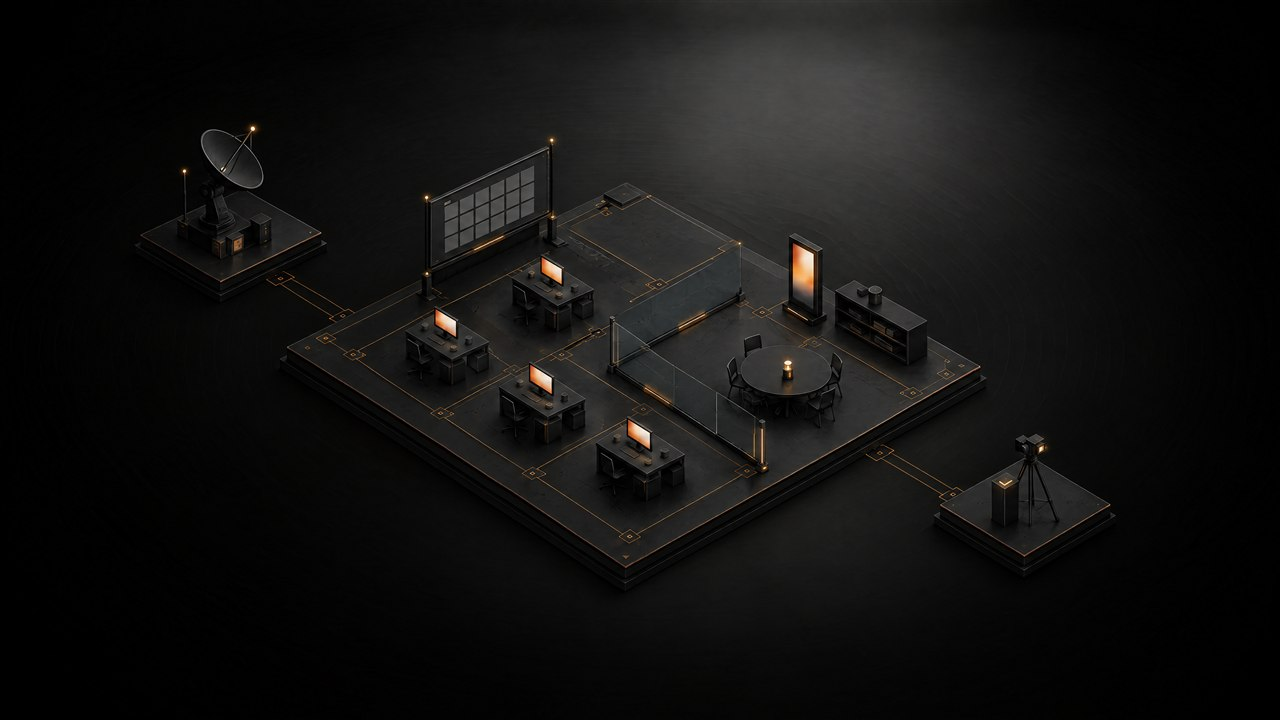
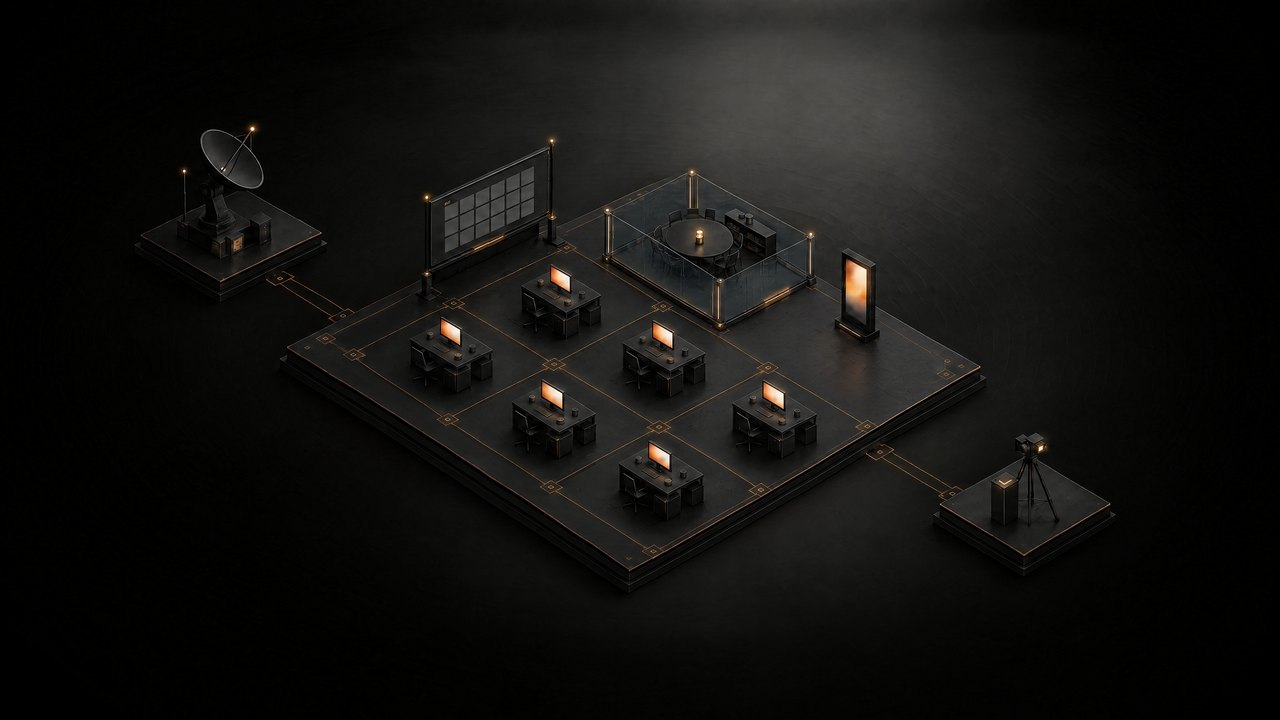
fix(nuevo): CC6 · oficina de marketing REGENERADA con 6 mesas (sin retoques encima)
Emilio (01-nov): «la imagen de la oficina quedó destruida con muchos errores; empieza de cero: coge la original
como se hizo en primera instancia y genera una nueva dándole instrucción al generador de que la cree con 6 mesas».

- public/nuevo/marketing-{2560,1280}.jpg: nueva foto con la misma receta de la original (POST /v1/images/edits ·
  gpt-image-2.5-flare · 3840x2160 high · entrada: la foto original), 2 candidatas (US$ 0,234), elegida la 1:
  6 mesas idénticas en rejilla de 2 × 3, cada una en su celda de líneas naranjas; sala de reuniones con vidrio
  solo con la mesa redonda y el mueble; pantalla vertical afuera. Tablero, antena, cámara y plataforma alineados
  con la original a ~1 px (las piezas de CC5 sobre la foto siguen en su sitio).
- Fuera la capa de retoques (marketing-oficina-simetrica.webp) y su <img>.
- MESAS: las 6 en la foto (monitores medidos sobre la foto nueva); atrás Dirección · Estrategia · Creativo,
  adelante Web y búsqueda · Medios y Performance · Relaciones.
- Pruebas: rejilla con el mismo paso, todas en la foto, sin capas.

Changed region(s): [[0.3125, 0.2444, 0.75, 0.7944], [0.7812, 0.6111, 0.8125, 0.6722], [0.7188, 0.6722, 0.75, 0.7028]]

diff --git a/__tests__/nuevo-cc6-s1-avatares.test.ts b/__tests__/nuevo-cc6-s1-avatares.test.ts
@@ -1,10 +1,10 @@
 /** Dashboard nuevo · CC6 Sprint 1 (01-nov): la escena viva de la oficina de marketing. 6 mesas · solo se sienta el que trabaja ahora · ficha con el agente real, fuente y hora. US$ 0 · sin red. */
 import { describe, expect, it } from "vitest"
-import { readFileSync } from "node:fs"
+import { existsSync, readFileSync } from "node:fs"
 import { renderToStaticMarkup } from "react-dom/server"
 import { createElement } from "react"
 import {
-  alSuelo, armarEscena, asientosDeLaMesa, CAMARA, colocarFiguras, FOTO, giroHaciaElMonitor, invocacionCierraElDespacho, lineasDeLaFicha, MAXIMO_DE_FIGURAS, MAXIMO_POR_MESA, MESAS, MESAS_EXTRA, mesaDelAgente,
+  alSuelo, armarEscena, asientosDeLaMesa, CAMARA, colocarFiguras, FOTO, giroHaciaElMonitor, invocacionCierraElDespacho, lineasDeLaFicha, MAXIMO_DE_FIGURAS, MAXIMO_POR_MESA, MESAS, mesaDelAgente,
   MINUTOS_FALLO, MINUTOS_TOPE, NOMBRES_SPLINE, nombreDelFlujo, pasoDe, proyectar, tableroDeLaMesa, type Despacho, type EntradaDeLaEscena, type InvocacionViva,
 } from "@/lib/escena-avatares"
 import { leerEscenaViva, LIMITE_DE_INVOCACIONES } from "@/lib/escena-avatares-datos"
@@ -24,30 +24,29 @@ const base = (extra: Partial<EntradaDeLaEscena> = {}): EntradaDeLaEscena => ({
 })
 
 describe("las 6 mesas del boceto aprobado", () => {
-  it("son 6, en el orden del organigrama, en rejilla simétrica 3 × 2: Dirección, Estrategia y Creativo de la foto; Web, Medios y Relaciones copias idénticas de Creativo", () => {
+  it("son 6, en el orden del organigrama, todas EN la foto regenerada, en rejilla de 2 filas × 3 columnas con el mismo paso", () => {
     expect(MESAS.map((m) => m.clave)).toEqual(["direccion", "estrategia", "creativo", "web", "medios", "relaciones"])
     expect(MESAS.filter((m) => m.etapa === "activo").map((m) => m.clave)).toEqual(["direccion", "estrategia", "creativo"])
-    expect(MESAS.filter((m) => !m.en_la_foto).map((m) => m.clave)).toEqual(["web", "medios", "relaciones"])
+    expect(MESAS.every((m) => m.en_la_foto)).toBe(true) // ya no hay capas de retoque
     for (const m of MESAS) for (const p of [m.silla, m.monitor, m.rotulo, m.centro]) { expect(p.x).toBeGreaterThan(0); expect(p.x).toBeLessThan(FOTO.w); expect(p.y).toBeGreaterThan(0); expect(p.y).toBeLessThan(FOTO.h) }
     expect(tableroDeLaMesa(MESAS[0]).split(" ")).toHaveLength(4)
-    // rejilla simétrica: columnas separadas por el mismo paso en cada fila y filas separadas por el mismo paso en cada columna
+    // rejilla: el paso entre columnas y entre filas es el mismo en toda la oficina (± 16 px por la perspectiva del render)
     const m = (k: string) => MESAS.find((x) => x.clave === k)!.monitor
     const resta = (p: { x: number; y: number }, q: { x: number; y: number }) => ({ x: p.x - q.x, y: p.y - q.y })
-    const col = resta(m("creativo"), m("estrategia"))
-    expect(resta(m("web"), m("direccion"))).toEqual(col)
-    expect(resta(m("relaciones"), m("medios"))).toEqual(col)
-    const fila = resta(m("direccion"), m("estrategia"))
-    expect(resta(m("medios"), m("direccion"))).toEqual(fila)
-    expect(resta(m("web"), m("creativo"))).toEqual(fila)
-    // las 2 nuevas son Creativo trasladada: silla, monitor y centro con el mismo traslado de la capa de imagen
-    const creativo = MESAS[2]
-    for (const k of ["web", "medios", "relaciones"] as const) {
-      const m = MESAS.find((x) => x.clave === k)!, d = MESAS_EXTRA.traslados[k]
-      for (const c of ["silla", "monitor", "centro"] as const) expect(m[c]).toEqual({ x: creativo[c].x + d.x, y: creativo[c].y + d.y })
-      // y caen dentro de la caja de la imagen
-      expect(m.monitor.x).toBeGreaterThan(MESAS_EXTRA.caja.x); expect(m.monitor.x).toBeLessThan(MESAS_EXTRA.caja.x + MESAS_EXTRA.caja.w)
-      expect(m.silla.y).toBeGreaterThan(MESAS_EXTRA.caja.y); expect(m.silla.y).toBeLessThan(MESAS_EXTRA.caja.y + MESAS_EXTRA.caja.h)
-    }
+    const cerca = (a: { x: number; y: number }, b: { x: number; y: number }) => { expect(Math.abs(a.x - b.x)).toBeLessThanOrEqual(16); expect(Math.abs(a.y - b.y)).toBeLessThanOrEqual(16) }
+    const col = resta(m("estrategia"), m("direccion"))
+    for (const [a, b] of [["creativo", "estrategia"], ["medios", "web"], ["relaciones", "medios"]] as const) cerca(resta(m(a), m(b)), col)
+    const fila = resta(m("web"), m("direccion"))
+    for (const [a, b] of [["medios", "estrategia"], ["relaciones", "creativo"]] as const) cerca(resta(m(a), m(b)), fila)
+    // la silla y el centro guardan el mismo desplazamiento respecto del monitor en las 6
+    const d0 = resta(MESAS[0].silla, MESAS[0].monitor)
+    for (const x of MESAS) expect(resta(x.silla, x.monitor)).toEqual(d0)
+  })
+  it("la foto de la oficina es la regenerada: 6 pantallas encendidas en los monitores de las mesas", () => {
+    const foto = readFileSync("public/nuevo/marketing-2560.jpg")
+    expect(foto.length).toBeGreaterThan(150_000); expect(foto.length).toBeLessThan(400_000)
+    expect(existsSync("public/nuevo/marketing-oficina-simetrica.webp")).toBe(false) // la capa de retoques se fue
+    expect(existsSync("public/nuevo/marketing-mesas-y-vidrio.webp")).toBe(false)
   })
   it("un solo sentado va en la silla; varios se reparten a lo largo de la mesa; nunca más de MAXIMO_POR_MESA", () => {
     const m = MESAS[1]
@@ -210,14 +209,13 @@ describe("la lectura y la ruta", () => {
     expect(escena).toContain('import { Avatares } from "@/components/nuevo/escena/Avatares"')
     expect(escena).toMatch(/depto === "marketing" && \(<>[\s\S]*<Avatares \/>[\s\S]*<\/>\)\}/)
   })
-  it("antes del dato la capa dibuja las 6 mesas vacías (2 de ellas en la capa de mesas nuevas, sin punteado), sin sentados ni fichas", () => {
+  it("antes del dato la capa dibuja las 6 mesas vacías (todas de la foto, sin punteado), sin sentados ni fichas", () => {
     const html = renderToStaticMarkup(createElement(Avatares))
     expect(html.match(/data-mesa="/g)).toHaveLength(6)
-    // pedido de Emilio 01-nov: nada de mesas punteadas; las 2 nuevas son una imagen aparte (copia idéntica) que entra y sale con la foto
+    // pedido de Emilio 01-nov: nada de mesas punteadas
     expect(html).not.toContain("nv-av-punteada")
     expect(html).not.toContain("stroke-dasharray")
-    expect(html).toContain('src="/nuevo/marketing-oficina-simetrica.webp"')
-    expect(html).toMatch(/class="nv-foto-b nv-av-mesas-extra[^"]*"/)
+    expect(html).not.toContain("nv-av-mesas-extra") // sin capas encima de la foto
     expect(html).not.toContain('class="nv-av-asiento"')
     expect(html).not.toContain('role="tooltip"')
     expect(html).toContain("MEDIOS Y PERFORMANCE")

diff --git a/lib/escena-avatares.ts b/lib/escena-avatares.ts
@@ -30,7 +30,7 @@ export interface Mesa {
   monitor: Punto
   /** dónde va el rótulo del equipo */
   rotulo: Punto
-  /** la mesa está en la foto original (Dirección, Estrategia, Creativo) o es una copia idéntica de la capa `MESAS_EXTRA` (Web, Medios, Relaciones) */
+  /** la mesa está en la foto (desde la foto regenerada del 01-nov, las 6) */
   en_la_foto: boolean
   /** centro del tablero de la mesa (para la zona del ratón) */
   centro: Punto
@@ -44,33 +44,24 @@ const mesa = (clave: ClaveDeMesa, nombre: string, orden: number, etapa: EtapaDeM
   ({ clave, nombre, orden, etapa, silla, monitor, rotulo: { x: monitor.x, y: monitor.y - 95 }, en_la_foto, centro, color })
 
 /**
- * LAS 6 MESAS (pedidos de Emilio 01-nov: «2 mesas extras idénticas a las que ya se ven», «deja dentro del vidrio solo el mueble y la mesa, pon afuera la pantalla
- * vertical y organiza las 6 mesas de manera simétrica y bien espaciada, sin perder las líneas naranjas del piso»): rejilla de 3 filas × 2 columnas con el mismo paso
- * que las mesas de la foto (medido por registro de imagen: columnas +191,+113 · filas +211,−105). Delante Estrategia y Creativo (sus mesas de la foto), en medio Dirección (la suya) y Web y búsqueda, al fondo Medios y Performance y
- * Relaciones. Web, Medios y Relaciones son copias píxel a píxel de la mesa Creativo en la capa `MESAS_EXTRA` (sus sillas/monitores = los de Creativo trasladados).
- * La foto original no se toca. Colores de `lib/organigrama.ts`.
+ * LAS 6 MESAS (Emilio 01-nov: «empieza de cero: coge la original y genera una nueva dándole instrucción al generador de que la cree con 6 mesas»). La foto
+ * `marketing-2560.jpg` se REGENERÓ con el mismo generador y la misma receta de la original (edición de la foto original · gpt-image-2.5-flare): 6 mesas idénticas
+ * en rejilla de 2 filas × 3 columnas, cada una en su celda de líneas naranjas; la sala de reuniones con vidrio encierra solo la mesa redonda y el mueble; la
+ * pantalla vertical queda afuera. Ya no hay capas de retoque: las 6 mesas están EN la foto. Monitores medidos sobre la foto nueva (centro de cada pantalla
+ * encendida); silla y centro con el mismo desplazamiento en las 6. Fila de atrás: Dirección · Estrategia · Creativo; fila de adelante: Web y búsqueda ·
+ * Medios y Performance · Relaciones. Colores de `lib/organigrama.ts`.
  */
+const SILLA = { x: -55, y: 68 }, CENTRO = { x: -5, y: 40 }
+const enLaFoto = (clave: ClaveDeMesa, nombre: string, orden: number, etapa: EtapaDeMesa, monitor: Punto, color: string): Mesa =>
+  mesa(clave, nombre, orden, etapa, { x: monitor.x + SILLA.x, y: monitor.y + SILLA.y }, monitor, true, { x: monitor.x + CENTRO.x, y: monitor.y + CENTRO.y }, color)
 export const MESAS: Mesa[] = [
-  mesa("direccion", "Dirección", 1, "activo", { x: 1044, y: 618 }, { x: 1108, y: 540 }, true, { x: 1084, y: 574 }, "#f5a524"),
-  mesa("estrategia", "Estrategia", 2, "activo", { x: 833, y: 723 }, { x: 897, y: 645 }, true, { x: 873, y: 679 }, "#e8731a"),
-  mesa("creativo", "Creativo", 3, "activo", { x: 1024, y: 836 }, { x: 1088, y: 758 }, true, { x: 1064, y: 792 }, "#ffb86b"),
-  mesa("web", "Web y búsqueda", 4, "segunda_etapa", { x: 1235, y: 731 }, { x: 1299, y: 653 }, false, { x: 1275, y: 687 }, "#9a7b5a"),
-  mesa("medios", "Medios y Performance", 5, "segunda_etapa", { x: 1255, y: 513 }, { x: 1319, y: 435 }, false, { x: 1295, y: 469 }, "#8c8c8c"),
-  mesa("relaciones", "Relaciones", 6, "segunda_etapa", { x: 1446, y: 626 }, { x: 1510, y: 548 }, false, { x: 1486, y: 582 }, "#a08cff"),
+  enLaFoto("direccion", "Dirección", 1, "activo", { x: 1120, y: 560 }, "#f5a524"),
+  enLaFoto("estrategia", "Estrategia", 2, "activo", { x: 1325, y: 671 }, "#e8731a"),
+  enLaFoto("creativo", "Creativo", 3, "activo", { x: 1545, y: 791 }, "#ffb86b"),
+  enLaFoto("web", "Web y búsqueda", 4, "segunda_etapa", { x: 901, y: 665 }, "#9a7b5a"),
+  enLaFoto("medios", "Medios y Performance", 5, "segunda_etapa", { x: 1104, y: 790 }, "#8c8c8c"),
+  enLaFoto("relaciones", "Relaciones", 6, "segunda_etapa", { x: 1318, y: 912 }, "#a08cff"),
 ]
-
-/**
- * La capa de la oficina reordenada: `public/nuevo/marketing-oficina-simetrica.webp` (con transparencia: solo los píxeles que cambian). Quita el vidrio viejo, la mesa
- * Web de la foto y la pantalla vertical (el piso se rehace liso con su grano y se redibujan los tramos de línea naranja que tapaban; los rombos se conservan); pone
- * las 3 mesas copiadas (`traslados` desde la mesa Creativo), un vidrio nuevo por las líneas del piso desde el rombo junto a la mesa redonda que encierra solo la mesa
- * y el mueble, y la pantalla vertical afuera, en la celda delantera derecha. `caja` = dónde va, en píxeles de la foto.
- * Generada por `.cc6/oficina-simetrica.py … --capa` (CC6, 01-nov · copia del guion en zr-vault/raw/evidencia/dashboard-nuevo/cc6/oficina-simetrica/).
- */
-export const MESAS_EXTRA = {
-  src: "/nuevo/marketing-oficina-simetrica.webp",
-  caja: { x: 1146, y: 381, w: 523, h: 642 },
-  traslados: { web: { x: 211, y: -105 }, medios: { x: 231, y: -323 }, relaciones: { x: 422, y: -210 } },
-} as const
 export const mesaPorClave = (k: string): Mesa | undefined => MESAS.find((m) => m.clave === k)
 
 /** el tablero de una mesa como polígono (puntos «x,y x,y …» para SVG): un paralelogramo isométrico de 200 × 84 alrededor de su centro */

diff --git a/components/nuevo/escena/Avatares.tsx b/components/nuevo/escena/Avatares.tsx
@@ -3,13 +3,13 @@
 import { useCallback, useEffect, useMemo, useRef, useState, type CSSProperties } from "react"
 import { FigurasSpline } from "@/components/nuevo/escena/FigurasSpline"
 import {
-  asientosDeLaMesa, colocarFiguras, ESCENA_AVATARES, FOTO, lineasDeLaFicha, MAXIMO_POR_MESA, MESAS, MESAS_EXTRA, tableroDeLaMesa,
+  asientosDeLaMesa, colocarFiguras, ESCENA_AVATARES, FOTO, lineasDeLaFicha, MAXIMO_POR_MESA, MESAS, tableroDeLaMesa,
   type ClaveDeMesa, type EscenaDatos, type Mesa, type MesaViva,
 } from "@/lib/escena-avatares"
 
 /**
  * LA ESCENA VIVA · AVATARES (CC6 · Sprint 1 · 01-nov): la capa que va ENCIMA de la foto de la oficina de marketing, dentro de la proyección de `EscenaViva`.
- * - Las 6 MESAS en rejilla simétrica de 3 filas × 2 columnas (3 de la foto + 3 copias idénticas); la sala de reuniones encierra solo la mesa redonda y el mueble; todo lo que cambia va en una imagen aparte encima de la foto.
+ * - Las 6 MESAS de la foto regenerada (01-nov): rejilla de 2 filas × 3 columnas, cada una en su celda; la sala de reuniones encierra solo la mesa redonda y el mueble.
  * - En la silla de cada mesa se SIENTA SOLO quien está trabajando ahora (dato real de `agent_dispatches`); si trabajan varios, se sientan a lo largo de la mesa.
  *   Mesa sin nadie trabajando = vacía y quieta. Al tocar la mesa se ve el equipo completo con su estado. Nunca hay avatares de relleno.
  * - Estados por el monitor de la FOTO: trabajando = brilla ámbar y late · en espera = como en la foto · falló = en rojo.
@@ -91,11 +91,6 @@ export function Avatares() {
   return (
     <div className="nv-av absolute inset-0" data-escena-viva data-leido={datos?.leido_en ?? ""} data-error={error ?? ""}>
       <style>{ESTILO}</style>
-      {/* la oficina reordenada (mesas copiadas, vidrio nuevo, pantalla afuera); usa la clase de la foto (`nv-foto-b`) para entrar y salir con ella */}
-      {/* eslint-disable-next-line @next/next/no-img-element */}
-      <img src={MESAS_EXTRA.src} alt="" aria-hidden width={MESAS_EXTRA.caja.w} height={MESAS_EXTRA.caja.h} decoding="async" draggable={false} data-mesas-extra
-        className="nv-foto-b nv-av-mesas-extra pointer-events-none absolute select-none"
-        style={{ left: pct(MESAS_EXTRA.caja.x, FOTO.w), top: pct(MESAS_EXTRA.caja.y, FOTO.h), width: pct(MESAS_EXTRA.caja.w, FOTO.w), height: pct(MESAS_EXTRA.caja.h, FOTO.h) }} />
       {hayFiguras && <FigurasSpline colocaciones={colocaciones} />}
       <svg viewBox={`0 0 ${FOTO.w} ${FOTO.h}`} className="absolute inset-0 h-full w-full" role="group" aria-label="Las mesas de la oficina de marketing y quién trabaja ahora" xmlns="http://www.w3.org/2000/svg">
         <defs>
